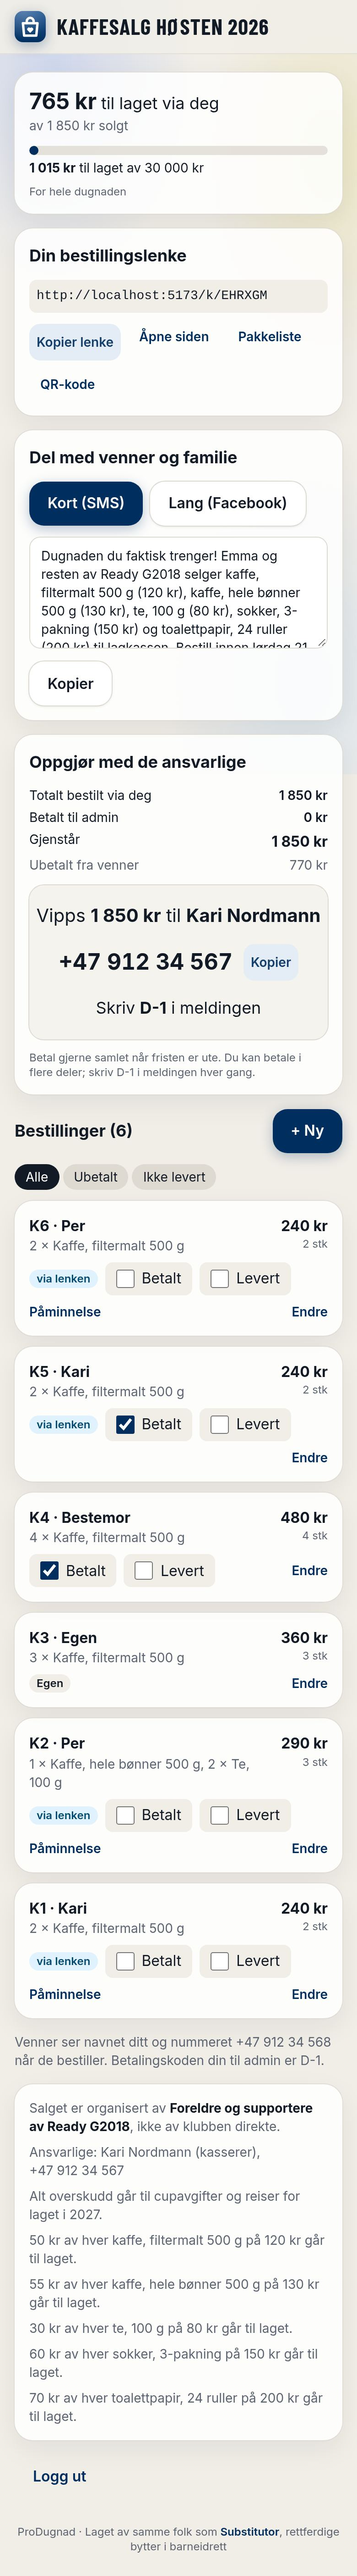
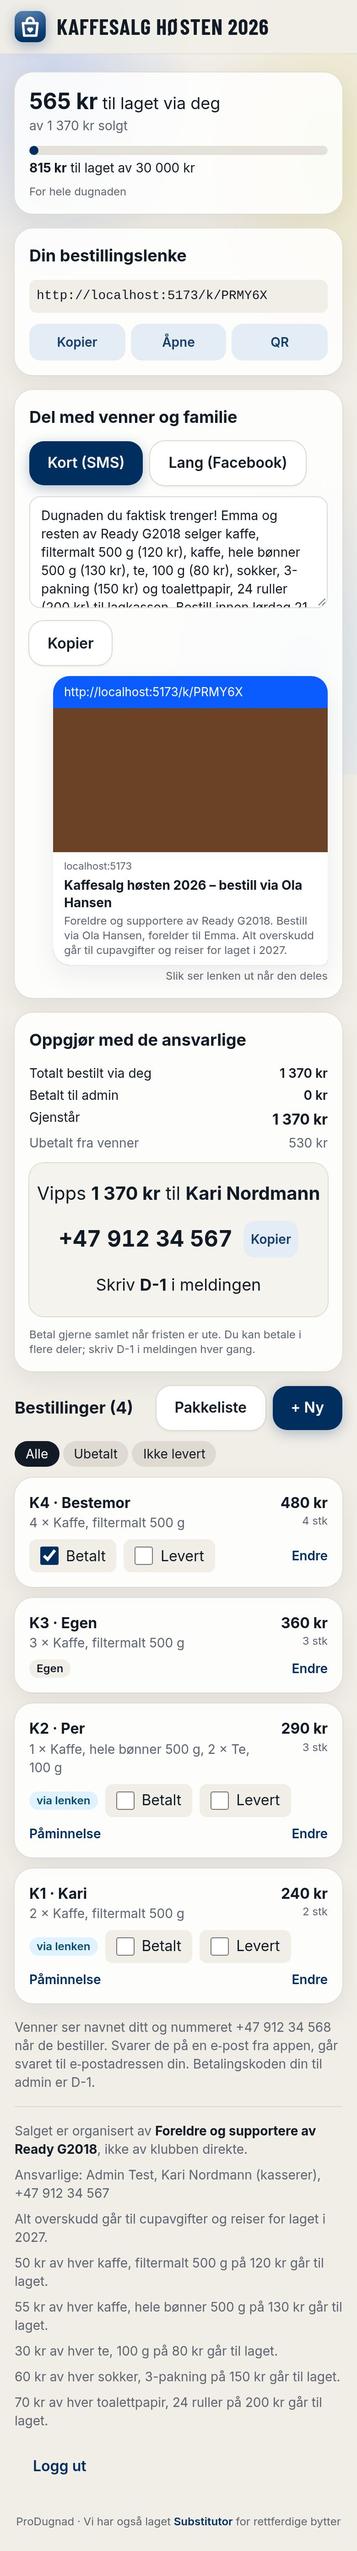
Packing list button moves next to the orders on the parent page

diff --git a/src/pages/parent/ParentPage.tsx b/src/pages/parent/ParentPage.tsx
@@ -93,13 +93,10 @@ export default function ParentPage() {
         <Card className="space-y-3">
           <h2 className="text-lg font-bold">Din bestillingslenke</h2>
           <p className="break-all rounded-lg bg-cream p-2 font-mono text-sm">{link}</p>
-          <div className="grid grid-cols-4 gap-1.5">
+          <div className="grid grid-cols-3 gap-1.5">
             <CopyButton value={link} label="Kopier" className="w-full" />
             <Link to={`/k/${cp.link_code}`} className={linkButton}>
               Åpne
-            </Link>
-            <Link to={`/pakkeliste/${cp.id}`} className={linkButton}>
-              Pakkeliste
             </Link>
             <button type="button" className={linkButton} onClick={() => setShowQr((v) => !v)} aria-expanded={showQr}>
               QR
@@ -186,11 +183,18 @@ export default function ParentPage() {
         <section className="space-y-3">
           <div className="flex items-center justify-between">
             <h2 className="text-lg font-bold">Bestillinger ({orders.length})</h2>
-            {open && (
-              <Link to={`/forelder/${cp.id}/ny`}>
-                <Button>+ Ny</Button>
-              </Link>
-            )}
+            <div className="flex gap-2">
+              {orders.length > 0 && (
+                <Link to={`/pakkeliste/${cp.id}`}>
+                  <Button variant="secondary">Pakkeliste</Button>
+                </Link>
+              )}
+              {open && (
+                <Link to={`/forelder/${cp.id}/ny`}>
+                  <Button>+ Ny</Button>
+                </Link>
+              )}
+            </div>
           </div>
           <div className="flex gap-1 text-sm">
             {(['alle', 'ubetalt', 'ikke-levert'] as Filter[]).map((f) => (

diff --git a/docs/tekster.md b/docs/tekster.md
@@ -120,7 +120,7 @@ Every text in the app, the emails and the link previews, as of 7 November 2026, 
 |---|---|---|
 | F0 | Top (follows Fremdrift) | **765 kr** til laget via deg · av 1 850 kr solgt · *progress bar* · For hele dugnaden |
 | F1 | Box title | Din bestillingslenke |
-| F2 | Buttons (one row) | Kopier · Åpne · Pakkeliste · QR |
+| F2 | Buttons (one row) | Kopier · Åpne · QR |
 | F3 | QR print heading | *Kaffesalg* – bestill via *Ola Hansen* · Skriv ut |
 | F4 | Box title | Del med venner og familie |
 | F5 | Choice | Kort (SMS) · Lang (Facebook) |
@@ -133,7 +133,7 @@ Every text in the app, the emails and the link previews, as of 7 November 2026, 
 | F11 | Under it | Betal gjerne samlet når fristen er ute. Du kan betale i flere deler; skriv D-1 i meldingen hver gang. |
 | F12 | Paid too much | Du har betalt 200 kr for mye. Ta kontakt med de ansvarlige. |
 | F13 | Payments list | 7. november 2026: 1 440 kr registrert |
-| F14 | List title + button | Bestillinger (4) · + Ny |
+| F14 | List title + buttons | Bestillinger (4) · Pakkeliste · + Ny |
 | F15 | Filter | Alle · Ubetalt · Ikke levert |
 | F16 | Empty list | Ingen bestillinger her ennå. |
 | F17 | Order row | K7 · Kari / 2 × *Kaffe…* / 240 kr / 2 stk |
